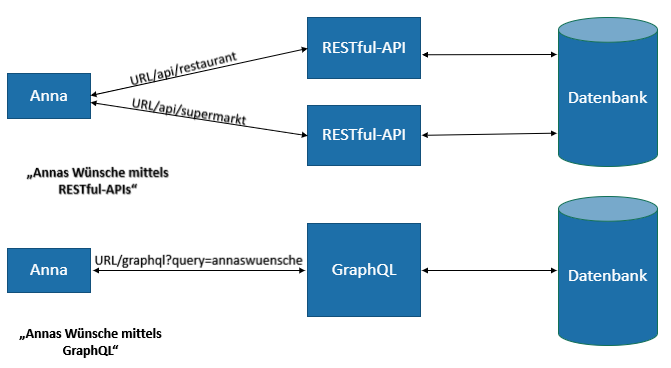
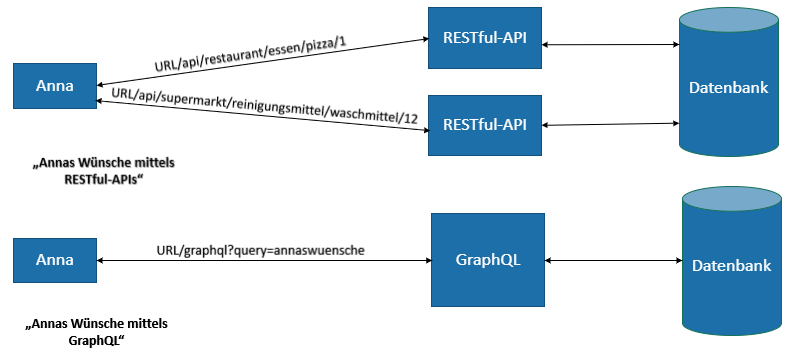
Nachträgliche Änderungen

diff --git a/_posts/2019-11-15-GraphQL-ist-flexibler,-das-Ende-von-RESTful-APIs.md b/_posts/2019-11-15-GraphQL-ist-flexibler,-das-Ende-von-RESTful-APIs.md
@@ -2,7 +2,7 @@
 layout:         [post, post-xml]              
 title:          "GraphQL ist flexibler, das Ende von RESTful-APIs?"
 date:           2019-11-15 18:00
-modified_date: 
+modified_date:  2020-04-28 15:00
 author:         muhannaddarraj 
 categories:     [Architektur]
 tags:           [RESTful-Web-Services, GraphQL]
@@ -36,13 +36,25 @@ Aus Annas Erfahrung lassen sich deutlich die folgenden Nachteile von REST entn
 
     REST kann bei einer Abfrage nicht alles erledigen, was der Client möchte. Die Informationen sind ggf. über verschiedene Endpunkte verteilt. Aus diesem Grund muss der Client manchmal mehrere Abfragen nacheinander tätigen, um alle Informationen zu erhalten. REST muss demzufolge zwei Routen durchlaufen, um Annas Wünsche zu erfüllen. Mit nur einer Abfrage,beispielsweise an den Endpunkt “/api/restaurant”,  würde Anna nur die Pizza bekommen.
 
+Indessen sind die beiden Probleme Over- und Underfetching mithilfe eines zu der Anforderung stimmigen API-Designs gut lösbar. Hinter den REST-APIs verbirgt sich eine sehr mächtige Sprache, mit der der Client sich effizient ausdrücken kann. Den meisten Entwicklern für Webapplikationen ist diese Sprache bekannt.  
+
+Der Client kann dabei ein Bingo geben, das durch den Server zu interpretieren ist. Die Produkte eines Supermarkts werden in der Datenbank beispielsweise durch ID-Nummern bezeichnet. Der Client gibt der REST-API hierzu eine ID-Nummer des geforderten Produkts. Die REST-API reicht diese dem Server weiter. Der Server kümmert sich um die Suche nach dem gewünschten Produkt in der Datenbank. Sollte der Server die Wünsche des Clients erfüllen können, dann nimmt REST-API die Daten mit und fährt zurück zum Client. Andernfalls würde der Server REST-API eine entsprechende Fehlermeldung zurückgeben, beispielsweise, wenn dieses Produkt nicht mehr vorhanden ist. Die Suche nach möglichst effizienten Namen kann einiges bewirken und hat ein besseres API-Design zur Folge. 
+
+Das bedeutet, dass Anna detailliert beschreiben sollte, wonach REST den Server fragen soll. Geeignete Endpunkte sehen zum Beispiel wie folgt aus:  
+
+* **URL/api/supermarkt/reinigungsmittel/waschmittel/12**
+* **URL/api/restaurant/essen/pizza/1**
+
+Mit dieser Abfrage würde Anna genau ein gewünschtes Waschmittel bzw. genau eine Pizza erhalten.  
+Durch dieses Design konnte der Client Over und Underfetching an Daten vermeiden. Doch wie würde die Bestellung geschehen, wenn Anna noch zusätzlich einen Drucker und ein Bett haben möchte? Einfach! Dann müssten wir genauso wie beim Restaurant und Supermarkt noch zwei weitere Endpunkte definieren. Wie wäre es aber, wenn Anna eine ganze Liste von Produkten aus verschiedenen Ressourcen hätte? Dann brauchen wir ebenfalls mehrere REST-Endpunkte. Das bedeutet, je mehr Ressourcen aus dem Backend angefordert werden, desto mehr Endpunkte sind erforderlich. Hiermit treffen wir abermals auf das aufgelistete Problem “mehrere Endpunkte erforderlich”. 
+
 # Die Lösung kommt mit GraphQL 
 
 Den genannten Herausforderungen hat sich Facebook 2012 gestellt und mit GraphQL eine Spezifikation entwickelt. Rund um diese Spezifikation haben sich inzwischen einige Implementierungen und ein vollständiges Ökosystem herausgebildet, welche den Einsatz analog zu REST in aktuellen Projekten unterstützen. GraphQL zeichnet sich durch folgende Punkte aus und hebt sich dadurch von REST-APIs ab.
 
-* Der Client kann sich explizit darauf festlegen, welche Daten er haben möchte, “nicht mehr und     nicht weniger”.   
+* Durch eine Abfrage kann der Client Daten aus unterschiedlichen Ressourcen anfordern, wie z.B.     Datenbanken oder gar Daten aus anderen GraphQL Servern. Die vom Client aufgelisteten Daten        werden durch eine Abfrage aus den verschiedenen Ressourcen gesammelt, verpackt und anschließend   an den Client gesendet. 
 
-* Durch eine Abfrage kann der Client Daten aus unterschiedlichen Ressourcen anfordern, wie z.B.     Datenbanken oder gar Daten aus anderen GraphQL Servern. Die vom Client aufgelisteten Daten        werden durch eine Abfrage aus den verschiedenen Ressourcen gesammelt, verpackt und anschließend   an den Client gesendet.   
+* Der Client kann sich explizit darauf festlegen, welche Daten er haben möchte, “nicht mehr und     nicht weniger”.     
 
 * Ein Endpunkt reicht für alle Abfragen völlig aus. Es werden also keine Endpunkte für PUT,         DELETE und anderen Methoden benötigt.   
 
@@ -64,10 +76,6 @@ Diese Anpassungen ermöglichen ein API-Design, welches den Herausforderungen von
 
     ![GraphQL als Wrapper](/assets/images/posts/GraphQL-ist-flexibler,-das-Ende-von-RESTful-APIs/Wrapper.PNG)
 
-* **Schnell:**
-
-    Da nicht die gesamten Daten aus dem Backend an den Client versendet werden müssen und keine Multiple-Anfragen bzw. Endpunkte bestehen, erhält der Client die Daten schneller als es bei REST-APIs der Fall ist.
-
 * **Übersichtlich:**
 
     Der Client muss in den zurückgelieferten Daten nicht nach seinen Anforderungen suchen, da er lediglich die von ihm verlangten Daten erhält. Mit RESTful-APIs musste Anna erst in dem Paket nach ihrem Wunsch suchen und dann alles andere wegwerfen.    
@@ -86,7 +94,7 @@ GraphQL kam zwar mit vielen guten Lösungsansätzen für bekannte Probleme von R
 
 * **Komplexität im Caching:**
 
-    Ein sehr wichtiges Feature, welches sowohl dem Client als auch dem Server große Flexibilität bietet, ist das HTTP-Caching. Ermittelte Ergebnisse auf Anfragen des Clients können temporär gehalten werden, um schnellere Responses zu ermöglichen. GraphQL kann von den Möglichkeiten des HTTP-Cachings allerdings nicht profitieren, da alle Anfragen über nur einen Endpunkt bedient werden. Der Vorteil von GraphQL (Single Endpoint) wird hier zum Nachteil, da die in der URL enthaltenen Query-Anfragen nicht eindeutig sind. Der Server weiß daher nicht, welche Daten der Client zuvor angefordert hat. Demzufolge ist ein Caching in GraphQL nur schwierig zu implementieren. Lösungen bieten Tools wie DataLoader, um das Caching in GraphQL zu vereinfachen.  
+    Ein sehr wichtiges Feature, welches sowohl dem Client als auch dem Server große Flexibilität bietet, ist das HTTP-Caching. Ermittelte Ergebnisse auf Anfragen des Clients können temporär gehalten werden, um schnellere Responses zu ermöglichen. GraphQL kann von den Möglichkeiten des HTTP-Cachings allerdings nicht profitieren, da alle Anfragen über nur einen Endpunkt bedient werden. Der Vorteil von GraphQL (Single Endpoint) wird hier zum Nachteil, da die in der URL enthaltenen Query-Anfragen nicht eindeutig sind. Der Server weiß daher nicht, welche Daten der Client zuvor angefordert hat. Demzufolge ist ein Caching in GraphQL nur schwierig zu implementieren. Lösungen bieten Tools wie DataLoader, um das Caching in GraphQL zu vereinfachen. Demgegenüber ist dieses Feature bei REST deutlich einfacher einzusetzen.
 
 * **Anfragen können ertrinken:**  
 
@@ -100,7 +108,11 @@ Wie bereits gesehen, gibt es mit GraphQL auch einige Herausforderungen, die Face
 
 # GraphQL ist keine Alternative zu RESTful-APIs 
 
-Welche der beiden Technologien nun die Bessere ist, lässt sich nicht final besiegeln. Auf Grund der negativen und positiven Aspekte, welchen beiden anhaften, lässt sich die Entscheidung nur sehr individuell und auf Basis der Projektsituation treffen. GraphQL ist aufgrund der Flexibilität im Umgang mit großen Datenmengen deutlich besser geeignet als RESTful-APIs, wenn die Applikation mit Massendaten arbeitet und diese aus verschiedenen Ressourcen bezieht. Für kleine Applikationen wird GraphQL hingegen beinahe zum Overkill für die Applikation. In diesem Fall sollten RESTful-APIs eingesetzt werden, um unnötige Komplexität von GraphQL zu vermeiden.  
+Wenn wir uns das "Richardson Maturity Model" von Leonard Richardson anschauen, stellen wir fest, dass GraphQL sich nur mit REST-APIs mit Level 2 aus dem beschriebenen Modell vergleichen lässt und sich vom echten REST-Konzept distanziert. Das heißt, wir können erst über eine "vollständige" REST-API sprechen, wenn diese den höchsten Reifegrad, nämlich Level 3, erreicht hat. Fakt ist aber leider, dass viele Entwickler nicht die "vollständige" REST-API benutzen, sondern die REST-API auf Level 2. Daher ist es wichtig, das Konzept von REST nicht herabzumindern.
+
+![Richardson Maturity Model](/assets/images/posts/GraphQL-ist-flexibler,-das-Ende-von-RESTful-APIs/Richardson-Maturity-Model.PNG)
+
+Welche der beiden Technologien nun die Bessere ist, lässt sich nicht final besiegeln. Auf Grund der negativen und positiven Aspekte, welchen beiden anhaften, lässt sich die Entscheidung nur sehr individuell und auf Basis der Projektsituation treffen. GraphQL ist aufgrund der Flexibilität im Umgang mit großen Datenmengen deutlich besser geeignet als RESTful-APIs, wenn die Applikation mit Massendaten arbeitet und diese aus verschiedenen Ressourcen bezieht. Für kleine Applikationen wird GraphQL hingegen beinahe zum Overkill für die Applikation. In diesem Fall sollten RESTful-APIs eingesetzt werden, um unnötige Komplexität von GraphQL zu vermeiden. Ebenso wie bereits im Absatz “Anfragen können ertrinken” beschrieben, übertrifft REST im Falle komplizierter Anfragen GraphQL, da mittels REST-APIs sowohl die Perfomance, als auch die Serverauslastung solcher Anfragen einfacher sicherzustellen sind, während man mit GraphQL schnell den Überblick verlieren kann und dabei Serverausfälle durch eine schlechte Umsetzung auftreten können. 
 
 # Ein Ausblick – Symbiose beider Ansätze
 
